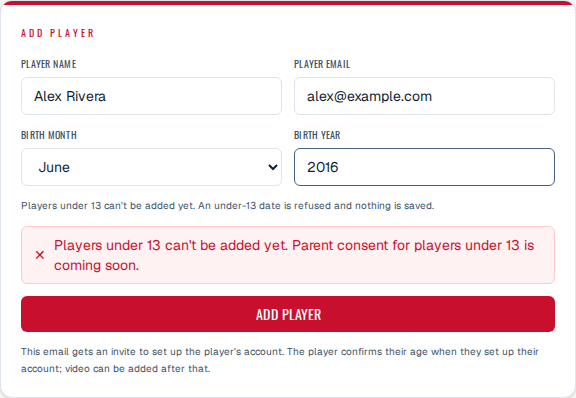
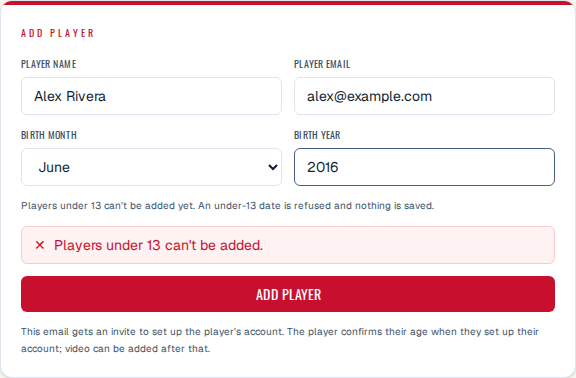
Drop coming-soon promise from under-13 invite refusal
Invite and 043 trigger now say only "Players under 13 can't be added."
Migration and prod paste stay byte-identical. Help line under birth
fields is unchanged.

diff --git a/supabase/tests/under13-launch-043.test.ts b/supabase/tests/under13-launch-043.test.ts
@@ -75,13 +75,15 @@ for (const shape of ['fresh', 'prod'] as const) {
     // players_restrict_insert (name order: refuse < restrict < set).
     const coach = await as(db, COACH,
       `INSERT INTO players (id, coach_id, full_name, email, age_band_coach) VALUES ($1,$2,'Kid','kid@x','under_13')`, [u(101), COACH])
-    assert.match(coach.err, /under 13 can't be added yet/, `coach insert refused honestly (${coach.err})`)
+    assert.match(coach.err, /Players under 13 can't be added/, `coach insert refused honestly (${coach.err})`)
+    assert.doesNotMatch(coach.err, /coming soon|yet\./i, 'no promise or timeline')
     assert.doesNotMatch(coach.err, /set by the app/, 'not 037\u2019s restrict message: the new trigger fired first')
     // As the service role (the app/direct path, RLS bypassed): only the
     // trigger can refuse.
     const svc = await as(db, 'service',
       `INSERT INTO players (id, coach_id, full_name, email, age_band_coach) VALUES ($1,$2,'Kid','kid2@x','under_13')`, [u(102), COACH])
-    assert.match(svc.err, /under 13 can't be added yet/, `service insert refused (${svc.err})`)
+    assert.match(svc.err, /Players under 13 can't be added/, `service insert refused (${svc.err})`)
+    assert.doesNotMatch(svc.err, /coming soon|yet\./i, 'no promise or timeline')
     assert.equal((await db.query<{ n: number }>(`SELECT count(*) n FROM players`)).rows[0].n, 0, 'nothing saved')
   })
 

diff --git a/src/lib/under13-mode.ts b/src/lib/under13-mode.ts
@@ -28,5 +28,5 @@ import { AGE_STOP_MESSAGE } from './stop-message'
 export const UNDER_13_STOP_MESSAGE = AGE_STOP_MESSAGE
 export const PARENT_CONSENT_COMING_SOON = 'Parent consent for players under 13 is coming soon.'
 export const PARENT_CONSENT_UNAVAILABLE = "Parent permission can't be given in the app yet. It's coming soon."
-export const UNDER_13_INVITE_REFUSED = `Players under 13 can't be added yet. ${PARENT_CONSENT_COMING_SOON}`
+export const UNDER_13_INVITE_REFUSED = "Players under 13 can't be added."
 export const UNDER_13_TEAM_REFUSED = `This team's age group is for players under 13, who can't be added yet. ${PARENT_CONSENT_COMING_SOON}`

diff --git a/src/lib/__tests__/actions/invite-under13.test.ts b/src/lib/__tests__/actions/invite-under13.test.ts
@@ -50,6 +50,8 @@ const writes = () => state.ops.filter((o) =>
 
 /** A refusal is an honest error only: never a success, never an invite link. */
 function assertRefused(r: { error?: string; success?: string; inviteUrl?: string }) {
+  assert.equal(UNDER_13_INVITE_REFUSED, "Players under 13 can't be added.")
+  assert.doesNotMatch(UNDER_13_INVITE_REFUSED, /coming soon|yet\./i)
   assert.equal(r.error, UNDER_13_INVITE_REFUSED)
   assert.equal(r.success, undefined, 'a refusal must never look like success')
   assert.equal(r.inviteUrl, undefined, 'a refusal must never hand back an invite link')
